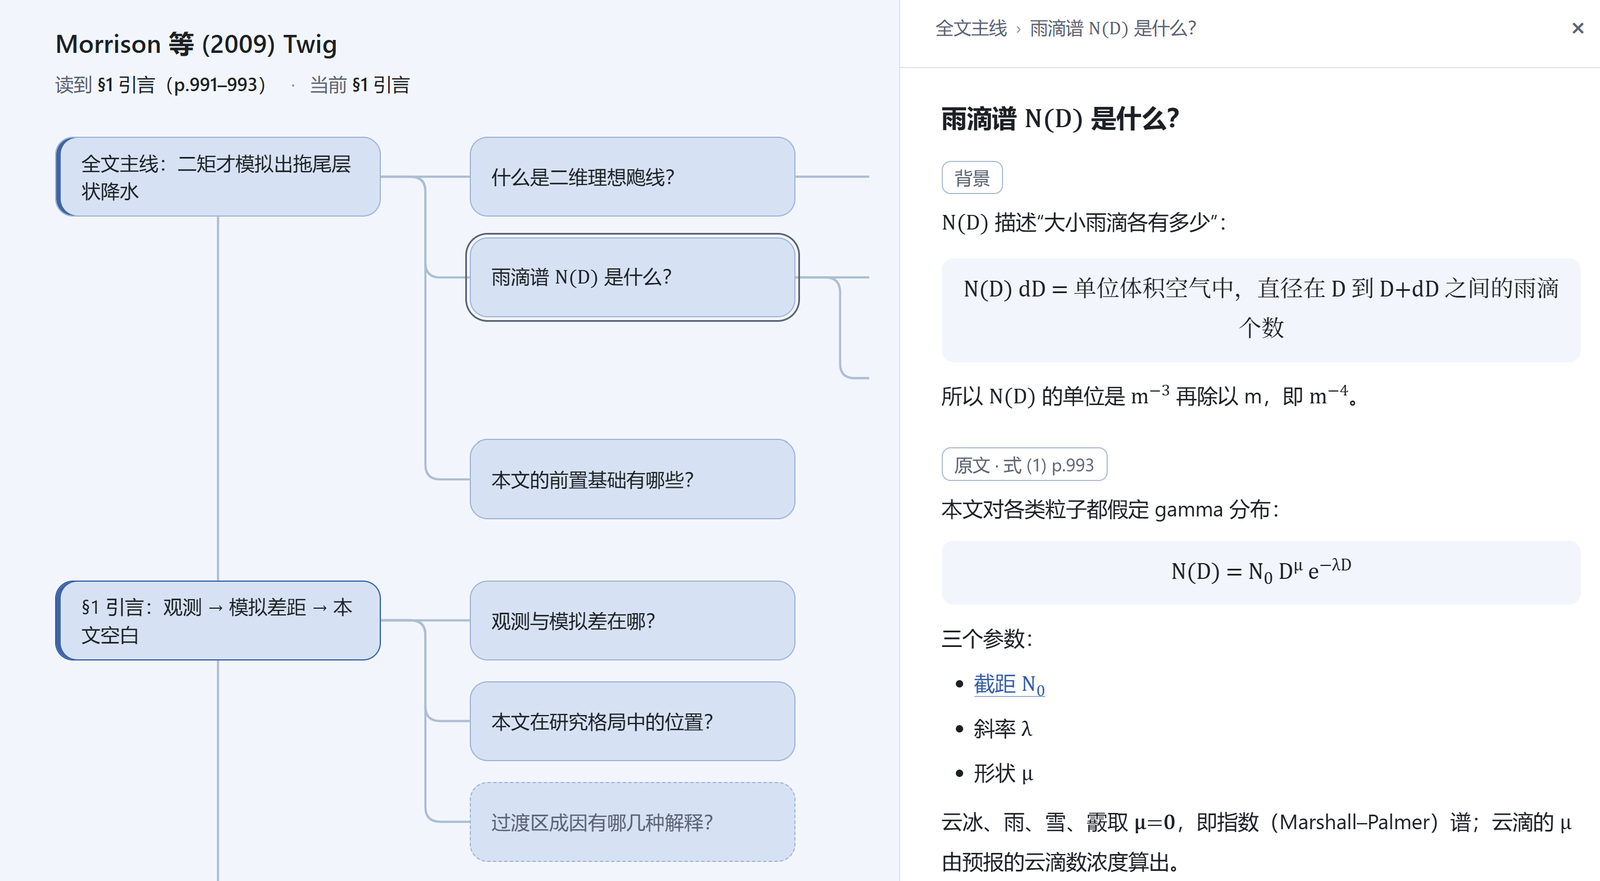
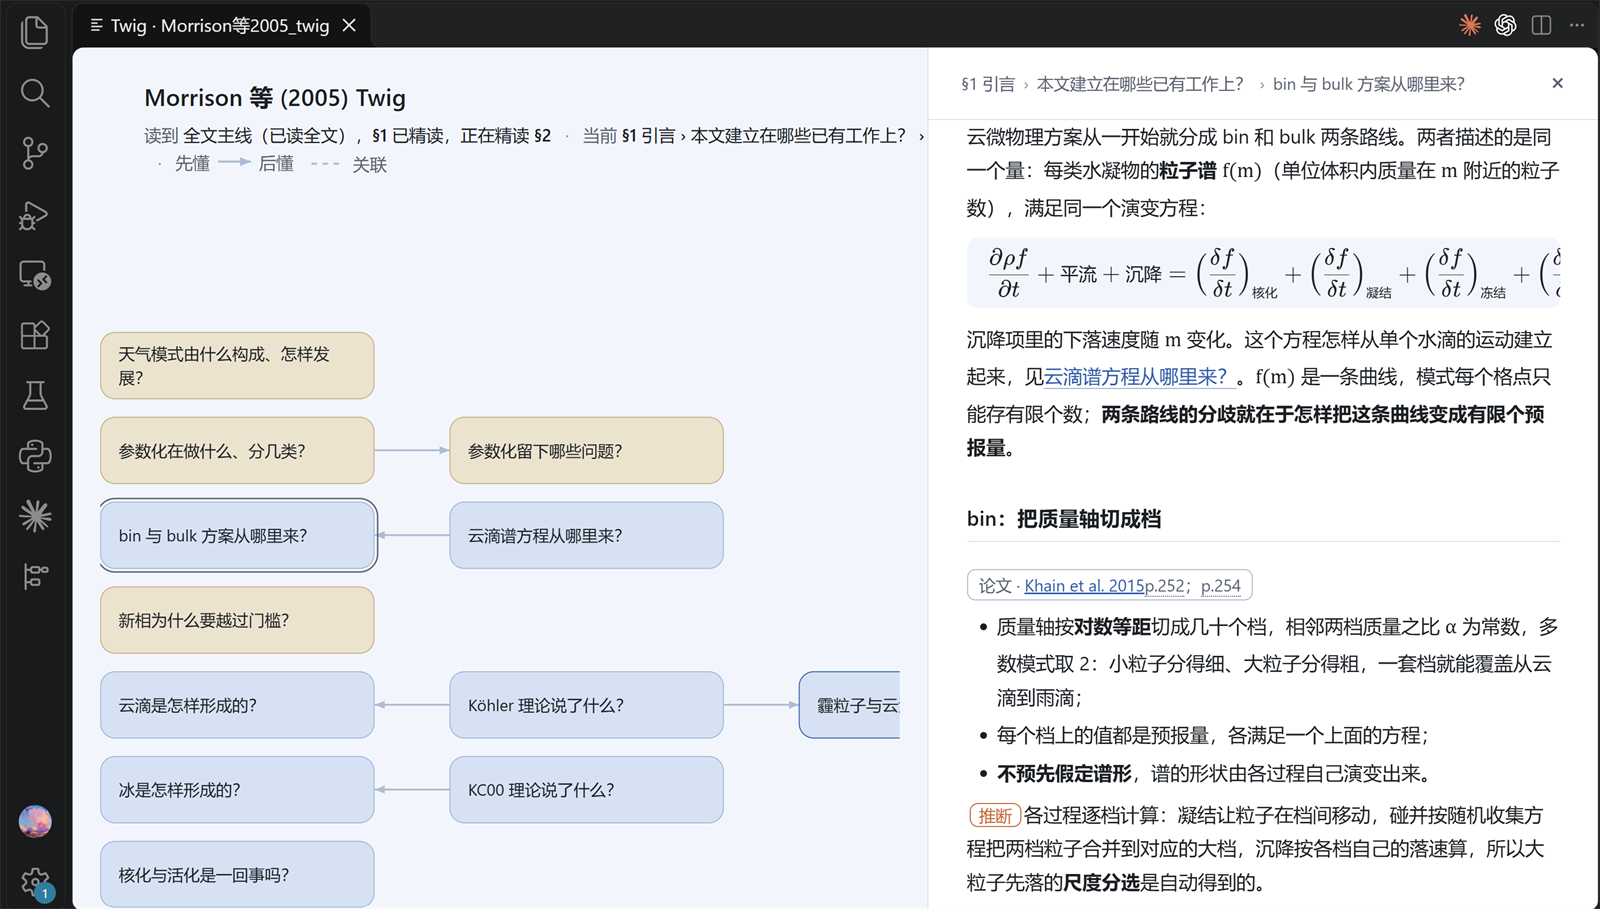
README：按侧栏重写使用说明，更新截图

diff --git a/README.md b/README.md
@@ -8,7 +8,7 @@
 
 Twig 把阅读过程画成一棵树：论文各节沿主干竖排，追问向右分叉，箭头由先懂的概念指向后懂的，虚线连起联想到的相关问题。每个节点有一张知识卡片，复习时顺着箭头就能看出“先懂什么，才能懂什么”。
 
-![树状图：主干是论文各节，追问向右分叉，虚线框是暂挂的问题](images/tree.png)
+![树状图：主干是论文各节，追问向右分叉，箭头由先懂的概念指向后懂的](images/tree.png)
 
 ## 配合 AI 读论文
 
@@ -19,18 +19,22 @@ Twig 把阅读过程画成一棵树：论文各节沿主干竖排，追问向右
 - 进度记在文件里，开新对话也能接着读；
 - 读完出 20–30 道题和参考答案，分成两个文件，先自己作答再对照。
 
-读的时候想到点子，可以接着和 AI 讨论：它把想法拆成假设、已知结论和推论，查本机论文和网络上的证据，指出漏洞和适用范围；成形后写成一篇灵感笔记，与追问图互相链接。
-
-![知识卡片：每段标出处，公式、表格、卡片链接都能显示](images/card.png)
+![知识卡片：每段标出处，AI 推出的内容标【推断】，公式、表格、卡片链接都能显示](images/card.png)
 
 <table><tr>
 <td><img src="images/questions-1.png" width="400" alt="提问清单：由浅入深分层"><br>提问清单：由浅入深分层</td>
 <td><img src="images/answers.png" width="400" alt="参考答案：逐题带出处"><br>参考答案：逐题带出处</td>
 </tr></table>
 
-## 接入文献库
+读的时候想到点子，可以接着和 AI 讨论：它把想法拆成假设、已知结论和推论，查本机论文和网络上的证据，指出漏洞和适用范围；成形后写成一篇灵感笔记，挂在引出它的那篇论文下，与追问图互相链接。
 
-用 Zotero 或 `.bib` 文件（JabRef 维护的，或从 EndNote 等导出的）管理文献的，新建时直接从文献库选论文，引文、PDF 路径和起始页码自动填好。不用文献库也可以，选一篇 PDF 就能开始读。
+## 侧栏：从文献库开始
+
+Twig 以论文为中心。活动栏里的 Twig 侧栏和 Zotero 一样分两栏：上面“分类”是文献库的分类树，下面“论文”列出选中分类里的论文。已有 Twig 的论文前面有树形图标，有灵感笔记的行尾有 💡，单击就打开；还没读的点右边的 + 新建，引文、PDF 路径和起始页码自动填好。
+
+文献库可以是 Zotero、`.bib` 文件（JabRef 维护的，或从 EndNote 等导出的），也可以是放论文 PDF 的文件夹：不用文献软件时，子文件夹就是分类。
+
+![侧栏：上面是文献库的分类，下面是论文；已有 Twig 的有树形图标，有灵感笔记的行尾有 💡](images/sidebar.png)
 
 ## 开始之前：搭好工作台
 
@@ -40,7 +44,7 @@ AI 只能顺畅读写 VSCode 工作区（打开的那个文件夹）里的文件
 |---|---|
 | 用 Zotero，不用云盘 | 建一个 `科研/` 文件夹作为工作区，里面放 Zotero 数据文件夹、`Twig追问整理/` 和 `Twig灵感笔记/` |
 | 用 Zotero，也用云盘 | `云盘/科研/` 作为工作区，里面放 `Twig追问整理/` 和 `Twig灵感笔记/`；Zotero 数据文件夹留在本地 |
-| 用 `.bib` 文件，或不用文献库 | `科研/` 作为工作区，里面放 `.bib`、论文 PDF、`Twig追问整理/` 和 `Twig灵感笔记/`；用云盘时整个放进云盘 |
+| 用 `.bib` 文件，或不用文献软件 | `科研/` 作为工作区，里面放 `.bib` 或放论文 PDF 的 `论文/`，以及 `Twig追问整理/` 和 `Twig灵感笔记/`；用云盘时整个放进云盘 |
 
 每种布局怎么搭、为什么这样搭，见[工作台搭建](docs/workspace.md)。不想按这些布局放的，可以自己指定位置，见下文“个性化”。
 
@@ -49,33 +53,27 @@ AI 只能顺畅读写 VSCode 工作区（打开的那个文件夹）里的文件
 ### 1. 安装
 
 1. 在扩展商店安装 Twig 问枝。
-2. 第一次启动时选“安装（推荐）”，把书写规则装给 AI。规则写入家目录下的 `.claude/skills/twig`，本机装有 Codex、Gemini 时也写入它们的 `skills` 目录。当时没装的，可以在命令面板运行“Twig：安装 AI 书写规则”。
+2. 第一次启动时选“安装（推荐）”，把书写规则装给 AI。规则写入家目录下的 `.claude/skills/twig`（Copilot 也读这里），本机装有 Codex、Gemini 时也写入它们的 `skills` 目录。当时没装的，可以在命令面板（Ctrl + Shift + P）运行“Twig：安装 AI 书写规则”。
 3. 安装 [PDF Viewer](https://marketplace.visualstudio.com/items?itemName=mathematic.vscode-pdf) 扩展，点出处时才能跳到原文。
-4. 接入文献库：
-   - Zotero（需要 7 以上）：在 Zotero 设置 → 高级 勾选“允许此计算机上的其他应用程序与 Zotero 通信”。
-   - `.bib` 文件：在设置（`Ctrl + ,`）中把 `twig.library` 选为 `bibtex`，`twig.bibFile` 填 `.bib` 文件的路径。
+4. 用 Zotero（需要 7 以上）的，在 Zotero 设置 → 高级 勾选“允许此计算机上的其他应用程序与 Zotero 通信”。
 
 ### 2. 使用
 
-Twig 的命令都在命令面板（Ctrl + Shift + P）里，输入 twig 就能找到。
+**选择文献库**：点活动栏的 Twig 图标打开侧栏，在“分类”的标题栏点“选择文献库”，选 Zotero、`.bib` 文件或 PDF 文件夹；后两种接着选文件或文件夹，不用进设置。
 
-![命令面板中的 Twig 命令](images/commands.png)
-
-**新建**：命令面板运行“Twig：新建 Twig”，按文献库的分类逐层找到论文，或直接搜索。选中后，引文、PDF 路径和起始页码自动填好，文件平铺放在 `Twig追问整理` 中；同一篇论文已有 Twig 时直接打开，不重复新建。不用文献库的，选最下面的“从 PDF 新建”，选好 PDF 就能开始读，引文等由 AI 读 PDF 后填。
-
-![新建：按 Zotero 分类浏览或直接搜索，最下面是不用文献库时的选项](images/zotero.png)
+**新建**：在“分类”里选一个分类，再在“论文”里点那篇论文右边的 +；也可以点标题栏的放大镜搜索文献。文件平铺放在 `Twig追问整理` 中；同一篇论文已有 Twig 时直接打开，不重复新建。
 
 **阅读**：
 
 1. 对 AI 说“开始读这篇论文”。AI 会先核对文件开头的 `firstPage`（PDF 第 1 页的期刊页码，决定能否跳对页），再写全文主线，之后随你追问往树上加节点。
-2. 打开 `*_twig.md`，点编辑器右上角的树形图标，旁边出现树状图，AI 改文件后自动刷新。点方框打开知识卡片；Ctrl + 滚轮缩放，按住空白处拖动。
+2. 单击侧栏里的论文，或在 `*_twig.md` 编辑器右上角点树形图标，旁边出现树状图，AI 改文件后自动刷新。点方框打开知识卡片；Ctrl + 滚轮缩放，按住空白处拖动。
 3. 卡片里的页码和图表号可以点，打开论文并定位到出处那一行；卡片也能链接网页和本机文件（笔记、代码等），点击直接打开。
 
-![出处里的页码和图表都能点，跳到原文对应位置](images/source.png)
+![出处里的页码可以点，PDF 跳到对应页并高亮那句原文](images/source.png)
 
-**灵感笔记**：读的时候想到点子，对 AI 说“我有个想法……”。讨论到成形后，运行“Twig：新建灵感笔记”，选一个主题文件夹（放在 `Twig灵感笔记` 下）、填简题，让 AI 整理成文；从追问图里新建的，会自动链接回那篇论文。
+**灵感笔记**：读的时候想到点子，对 AI 说“我有个想法……”。讨论到成形后，在侧栏右键那篇论文 →“新建灵感笔记”，填简题，让 AI 整理成文。一篇论文可以有多条，都放在 `Twig灵感笔记` 中。
 
-**读完**：对 AI 说“读完了，出题”，得到提问清单和参考答案。想分享给别人，右键 `*_twig.md` →“导出 HTML”，生成一个独立网页。
+**读完**：对 AI 说“读完了，出题”，得到提问清单和参考答案。想分享给别人，在侧栏右键论文 →“导出 HTML”，生成一个独立网页。
 
 ### 3. 个性化
 
